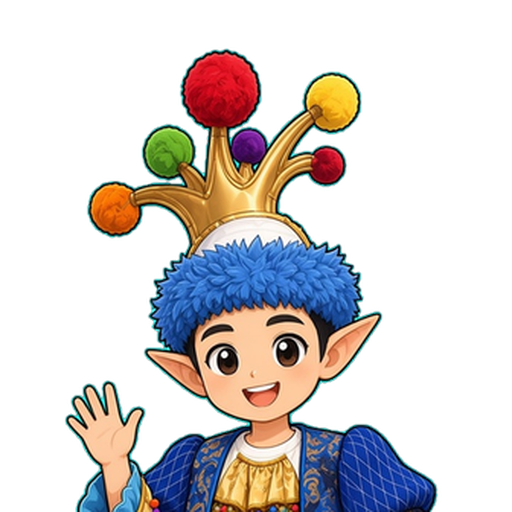
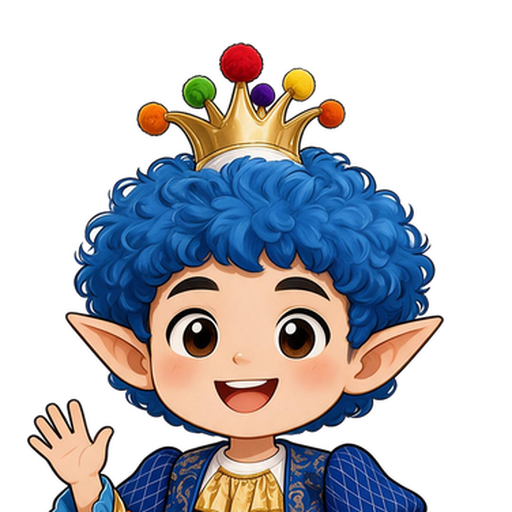
微笑姐姐、哈特、氣球精靈：表情檔與頭像換成新比例，更新量測數字
- expr/ 六個檔改用新全身圖（閉嘴、張嘴兩張內容相同，和原本做法一樣）
- avatars/ 三張頭像從新全身圖等比裁切
- CAST_METRICS 與 data/cast-metrics.json 三人改成新圖實量數字
- bodySpan：微笑姐姐的蝴蝶結比照高帽、王冠不算進身高
- docs/cmp-cast-redraw.png 加上表情與頭像

diff --git a/js/portraits.js b/js/portraits.js
@@ -24,17 +24,17 @@ const MASCOT_FULL = {
 
 /**
  * Head-height metrics in source pixels.
- * head = crown / hair (fitted cap or bow included; tall hats excluded) to chin.
+ * head = crown / hair (fitted cap included; tall hats and 微笑姐姐's bow excluded) to chin.
  * 眠花糖 uses the skull crown between the ear bases, not the ear tips.
  */
 export const CAST_METRICS = {
-  jiejie: { w: 540, h: 720, headTop: 29, chin: 214, head: 186, feet: 687, bboxTop: 29, contentL: 99, contentR: 440, faceL: 210, faceR: 350 },
+  jiejie: { w: 540, h: 720, headTop: 35, chin: 256, head: 222, feet: 690, bboxTop: 5, contentL: 80, contentR: 459, faceL: 197, faceR: 353 },
   feifei: { w: 540, h: 720, headTop: 30, chin: 262, head: 233, feet: 686, bboxTop: 30, contentL: 113, contentR: 426, faceL: 200, faceR: 350 },
   apiao:  { w: 540, h: 720, headTop: 29, chin: 248, head: 220, feet: 687, bboxTop: 29, contentL: 128, contentR: 412, faceL: 185, faceR: 355 },
   sika:   { w: 540, h: 720, headTop: 29, chin: 252, head: 224, feet: 687, bboxTop: 29, contentL: 152, contentR: 388, faceL: 180, faceR: 365 },
   bulu:   { w: 540, h: 720, headTop: 29, chin: 248, head: 220, feet: 687, bboxTop: 29, contentL: 146, contentR: 393, faceL: 180, faceR: 350 },
-  hate:   { w: 540, h: 720, headTop: 114, chin: 262, head: 149, feet: 686, bboxTop: 30, contentL: 116, contentR: 424, faceL: 205, faceR: 370 },
-  spirit: { w: 540, h: 720, headTop: 114, chin: 268, head: 155, feet: 686, bboxTop: 30, contentL: 141, contentR: 398, faceL: 200, faceR: 340 },
+  hate:   { w: 540, h: 720, headTop: 86, chin: 294, head: 209, feet: 700, bboxTop: 4, contentL: 109, contentR: 430, faceL: 219, faceR: 393 },
+  spirit: { w: 540, h: 720, headTop: 82, chin: 293, head: 212, feet: 700, bboxTop: 4, contentL: 117, contentR: 422, faceL: 208, faceR: 362 },
   mascot: { w: 248, h: 441, headTop: 106, chin: 210, head: 105, feet: 429, bboxTop: 12, contentL: 12, contentR: 236, faceL: 36, faceR: 212 }
 };
 
@@ -76,8 +76,8 @@ export const REF_RATIO = 224 / 657;
 
 function bodySpan(id, m) {
   const n = normId(id);
-  // Tall hats are excluded from height so the hat may poke above a shared crown line.
-  if (n === "hate" || n === "spirit") return Math.max(1, m.feet - m.headTop);
+  // Tall hats (and 微笑姐姐's bow) are excluded from height so they may poke above a shared crown line.
+  if (n === "hate" || n === "spirit" || n === "jiejie") return Math.max(1, m.feet - m.headTop);
   const top = m.bboxTop != null ? m.bboxTop : 0;
   return Math.max(1, m.feet - top);
 }
